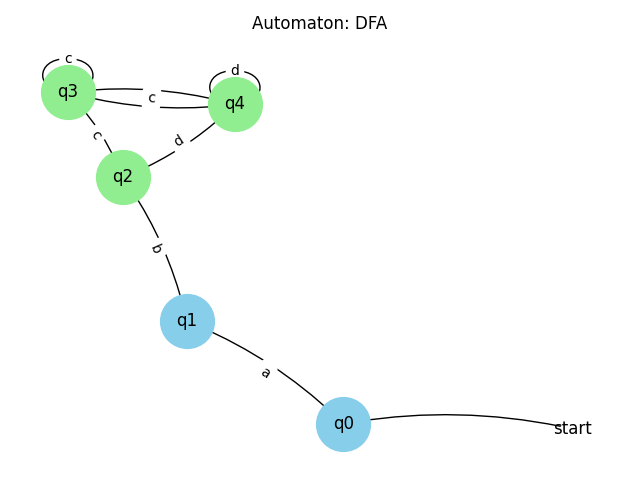
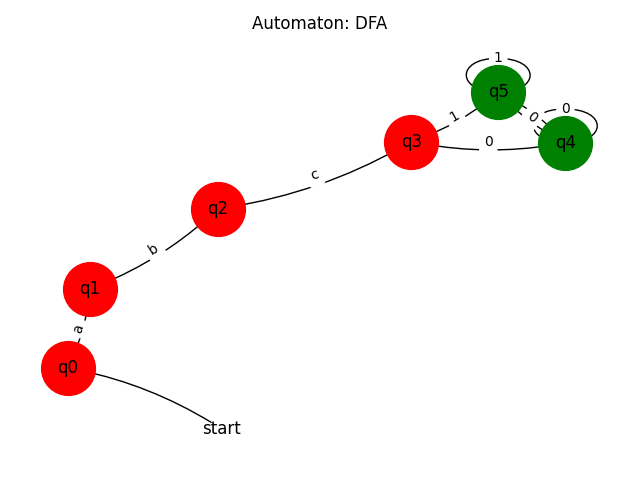
Updates

diff --git a/Automata/DDFA.py b/Automata/DDFA.py
@@ -1,6 +1,5 @@
 from Algorithms.Postfix import infix_to_postfix
 from Graph.Vizualizer import visualize_automaton
-# from Algorithms.Tree import build_syntax_tree
 from Automata.Automaton import Automaton
 from Automata.Nodes import Node 
 
@@ -139,7 +138,7 @@ class DDFA(Automaton):
             for i in node.lastpos:
                 self.followpos_.setdefault(i, set()).update(node.firstpos)
 
-    def build(self, regex:str) -> None:
+    def build(self, regex:str, visualize:bool = False) -> None:
         self.regex = regex + '#' # add end marker character
         self.root = self.build_syntax_tree(regex=self.regex) 
         self.assign_positions(node=self.root, counter=[0]) # assign positions to nodes
@@ -179,13 +178,33 @@ class DDFA(Automaton):
             
             if end_marker_pos in current:
                 accepting_states.add(current)
+        
+        if visualize:
+            # transform frozensets to integers for better visuals (only necessary if visualizing the dfa)
+            all_states = list(transitions.keys()) + [v for d in transitions.values() for v in d.values()]
+            unique_states = sorted(set(all_states), key=lambda x: sorted(x))
+            state_map = {s: i for i, s in enumerate(unique_states)}
 
-        # update self's attributes 
-        self.final_states = accepting_states
-        self.states = states
-        self.initial_state = start
-        self.transitions = transitions
-    
+            new_transitions: dict = {}
+            for src_set, edge_dict in transitions.items():
+                src_id = state_map[src_set]
+                new_transitions[src_id] = {}
+                for symbol, dst_set in edge_dict.items():
+                    dst_id = state_map[dst_set]
+                    new_transitions[src_id][symbol] = dst_id
+            
+            # update self's attributes 
+            self.final_states = {state_map[s] for s in accepting_states}
+            self.states = set(state_map.values())
+            self.initial_state = state_map[start]
+            self.transitions = new_transitions
+        else:
+            # update self's attributes (harder to visualize)
+            self.final_states = accepting_states
+            self.states = states
+            self.initial_state = start
+            self.transitions = transitions
+
     def accepts(self, w: str | list) -> bool:
         if isinstance(w, str):
             w: list[str] = list(w) # convert to list if not already
@@ -203,7 +222,7 @@ class DDFA(Automaton):
 
 def build_direct_dfa(regex: str, w:str = None, visualize:bool = False) -> None:
     dfa = DDFA() # make instance
-    dfa.build(regex=regex) # build DFA from a dfa
+    dfa.build(regex=regex, visualize=visualize) # build DFA from a dfa
     dfa.print_automaton()
     if w:
         print(dfa.accepts(w=w))

diff --git a/Graph/Vizualizer.py b/Graph/Vizualizer.py
@@ -3,6 +3,10 @@ import matplotlib.pyplot as plt
 
 
 def visualize_automaton(automata: object) -> None:
+    '''
+    Usses networkx and matplotlib to plot and visualize an automata
+    You could use Graphviz, but need to add dot to PATH
+    '''
     G = nx.DiGraph()
     initial = f'q{automata.initial_state}'
 
@@ -13,18 +17,23 @@ def visualize_automaton(automata: object) -> None:
     G.add_node('start', shape='none')
     G.add_edge('start', initial, label='')
 
+    edge_map: dict[tuple, set] = {} # to hold multiple transitions to the same place
     for src, edges in automata.transitions.items():
         for symbol, dst in edges.items():
             src_label = f'q{src}'
             dst_label = f'q{dst}'
-            G.add_edge(src_label, dst_label, label=symbol)
+            edge_map.setdefault((src_label, dst_label), set()).add(symbol)
+    
+    for (src_label, dst_label), symbols in edge_map.items():
+            label=','.join(sorted(symbols))
+            G.add_edge(src_label, dst_label, label=label)
     
     pos = nx.spring_layout(G, seed=42)
     final_nodes = [n for n, d in G.nodes(data=True) if d.get("is_final")]
     other_nodes = [n for n in G.nodes() if n not in final_nodes and n != 'start']
 
-    nx.draw_networkx_nodes(G, pos, nodelist=other_nodes, node_color='skyblue', node_size=1500)
-    nx.draw_networkx_nodes(G, pos, nodelist=final_nodes, node_color='lightgreen', node_shape='o', node_size=1500)
+    nx.draw_networkx_nodes(G, pos, nodelist=other_nodes, node_color='red', node_size=1500) # set states
+    nx.draw_networkx_nodes(G, pos, nodelist=final_nodes, node_color='green', node_shape='o', node_size=1500) # set final states (accepting)
     nx.draw_networkx_nodes(G, pos, nodelist=['start'], node_color='white', node_shape='o', node_size=1)
 
     nx.draw_networkx_edges(G, pos, arrows=True, arrowstyle='->', connectionstyle='arc3,rad=0.1')

diff --git a/Main.py b/Main.py
@@ -2,16 +2,17 @@ from Automata.DDFA import build_direct_dfa
 from Automata.DFA import build_dfa
 from Automata.NFABuilder import build_nfa
 from Automata.MinDFA import build_min_dfa
-from Graph.Vizualizer import visualize_automaton
+
 
 
 def main() -> None:
     regex:str = input("Input regex: ")
     w:str = input("Input chain: ")
-    # build_direct_dfa(regex=regex, w=w)
+    
+    build_direct_dfa(regex=regex, w=w, visualize=True)
     nfa = build_nfa(regex=regex, w=w)
-    dfa = build_dfa(nfa=nfa, w=w)
-    min_dfa = build_min_dfa(dfa=dfa, w=w)
+    dfa = build_dfa(nfa=nfa, w=w, visualize=False)
+    min_dfa = build_min_dfa(dfa=dfa, w=w, visualize=False)
 
     
 if __name__ == "__main__":

diff --git a/Automata/Automaton.py b/Automata/Automaton.py
@@ -6,10 +6,10 @@
 class Automaton:
     def __init__(self)->None:
         self.precedence: dict[int, str]  = {'|': 1, '.': 2, '*': 3, '+': 3, '?': 3} # keep track of operator precedence 
-        self.states: set[frozenset[int]] = set()
-        self.final_states: set[frozenset[int]] = set()
-        self.initial_state: frozenset = frozenset()
-        self.transitions: dict = {}
+        self.states: set[int] = set()
+        self.final_states: set[int] = set()
+        self.initial_state: int = int
+        self.transitions: dict[str, dict[str, int]] = {}
 
     def get_automaton(self) -> None:
         raise NotImplementedError()

diff --git a/Automata/MinDFA.py b/Automata/MinDFA.py
@@ -8,7 +8,7 @@ class MinDFA(DFA):
         self.unreachable_states: set = set()
         self.reverse_transitions: dict = {}
     
-
+    #TODO fix this, it does not work 100%
     def build(self, dfa: DFA) -> None:
         '''
         Uses Hopcrofts algorithm and then builds the minimized automaton
@@ -133,6 +133,7 @@ class MinDFA(DFA):
 def build_min_dfa(dfa: DFA, w:str=None, visualize:bool=False) -> MinDFA:
     min_dfa = MinDFA()
     min_dfa.build(dfa=dfa)
+    min_dfa.print_automaton()
     if w:
         print(min_dfa.accepts(w=w))
     if visualize:

diff --git a/Automata/NFABuilder.py b/Automata/NFABuilder.py
@@ -117,8 +117,9 @@ class NFABuilder(Automaton):
     
     def print_automaton(self):
         print(f"Final states: {self.nfa.final_states}")
-        print(f"Starting state: {self.nfa.start_state}")
+        print(f"Starting state: {self.nfa.initial_state}")
         print(f"Alphabet: {self.nfa.alphabet}")
+        print(f"Transitions: {self.nfa.transitions}")
 
     def get_automaton(self) -> NFA:
         return self.nfa

diff --git a/Automata/NFA.py b/Automata/NFA.py
@@ -22,9 +22,10 @@ class NFAState:
 
 
 class NFA:
-    start_state:int = 0
+    initial_state:int = 0
     final_states:set = set()
     alphabet:set = set()
+    transitions:dict[str, dict[str, int]] = {}
 
     @staticmethod
     def create_character(character: str) -> 'NFA':

diff --git a/Automata/DFA.py b/Automata/DFA.py
@@ -105,6 +105,7 @@ class DFA(Automaton):
 def build_dfa(nfa: NFA, w: str = None, visualize:bool=False) -> DFA:
     dfa = DFA()
     dfa.build(nfa=nfa)
+    dfa.print_automaton()
     if w:
         print(dfa.accepts(w=w))
     if visualize:
